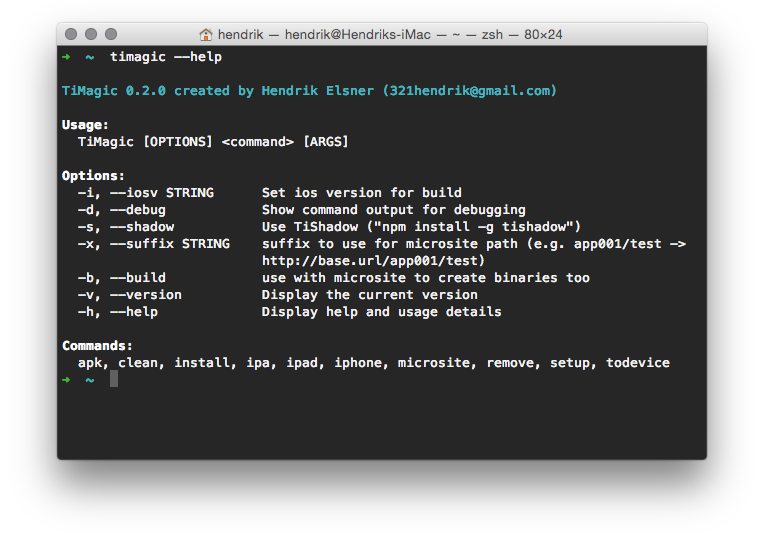
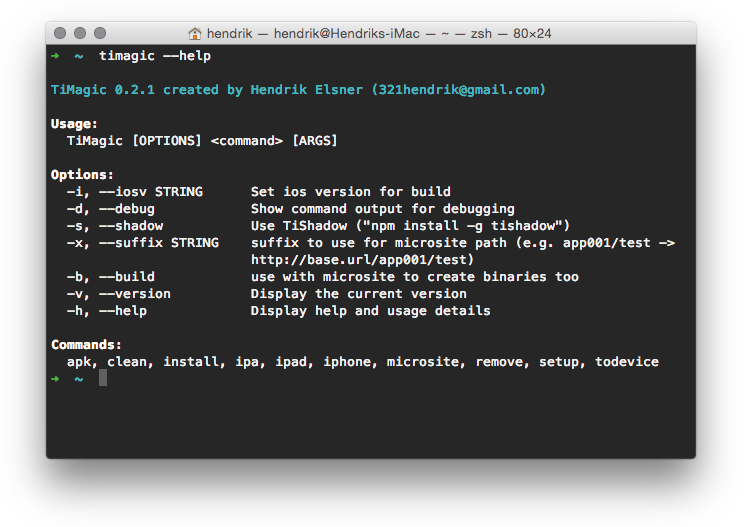
make nodejs branch main version

Changed region(s): [[0.0613, 0.0304, 0.9494, 0.9108]]

diff --git a/lib/main.js b/lib/main.js
@@ -11,7 +11,7 @@
 	 * CLI Configuration
 	 */
 	var appname = 'TiMagic';
-	var currVersion = '0.2.0';
+	var currVersion = '0.2.1';
 	var author = 'Hendrik Elsner';
 	var email = '321hendrik@gmail.com';
 

diff --git a/README.md b/README.md
@@ -1,5 +1,5 @@
-# TiMagic (NodeJS)
-Command-line tool for the Titanium CLI and ADB. [![npm version](https://badge.fury.io/js/timagic.svg)](http://badge.fury.io/js/timagic)
+# TiMagic
+NodeJS Command-line tool for the Titanium CLI and ADB. [![npm version](https://badge.fury.io/js/timagic.svg)](http://badge.fury.io/js/timagic)
 
 ![*Screenshot here*](screen.png)
 ### Features
